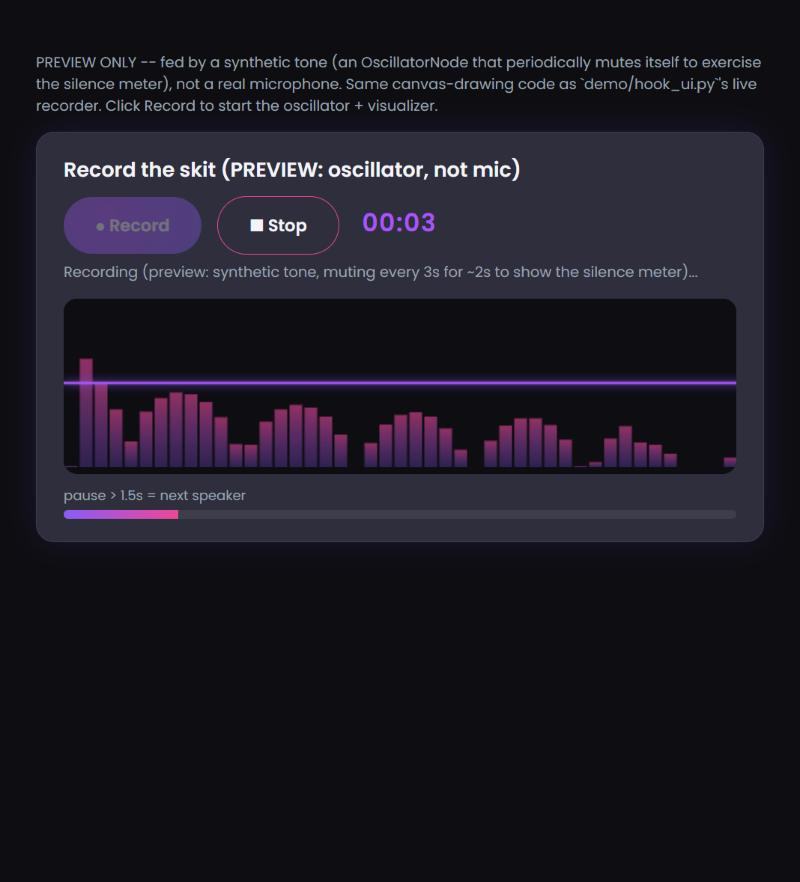
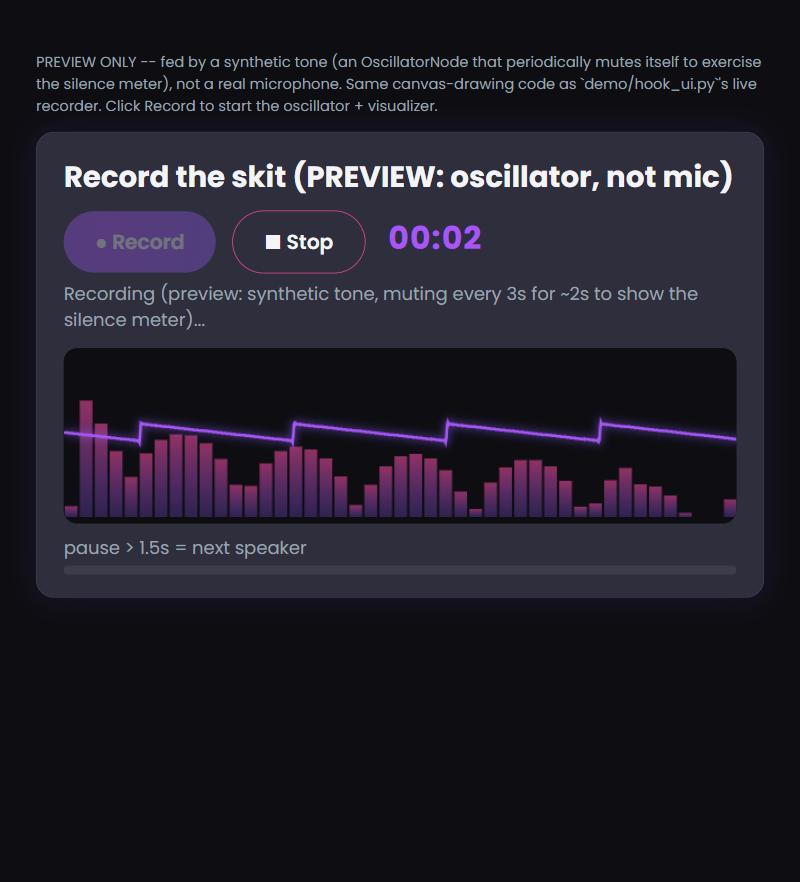
WP14: bigger recorder text (title 26px, timer 28px, buttons 18px)

Changed region(s): [[0.0312, 0.1837, 0.9688, 0.7041], [0.0625, 0.0612, 0.7188, 0.1224], [0.75, 0.0612, 0.9375, 0.0918]]

diff --git a/plan/handoffs/wp14/recorder_preview.html b/plan/handoffs/wp14/recorder_preview.html
@@ -13,9 +13,9 @@ body { background: #0D0D12; margin: 0; padding: 32px; font-family: 'Poppins','Se
   background: #2E2E3C; border-radius: 16px; padding: 20px 24px; margin: 10px 0;
   border: 1px solid #ffffff14; box-shadow: 0 0 26px #8B5CF622; max-width: 700px;
 }
-.wsx-card h3 { margin: 0 0 10px 0; font-size: 18px; font-weight: 600; color: #F4F4F8; }
+.wsx-card h3 { margin: 0 0 10px 0; font-size: 26px; font-weight: 700; color: #F4F4F8; }
 .wsx-record-btn, .wsx-stop-btn {
-  border: none; border-radius: 999px; font-weight: 600; font-size: 15px;
+  border: none; border-radius: 999px; font-weight: 600; font-size: 18px;
   padding: 14px 28px; cursor: pointer; color: #F4F4F8; margin-right: 10px;
 }
 .wsx-record-btn {
@@ -25,11 +25,11 @@ body { background: #0D0D12; margin: 0; padding: 32px; font-family: 'Poppins','Se
 .wsx-record-btn:disabled { opacity: 0.35; cursor: default; box-shadow: none; }
 .wsx-stop-btn { background: #2E2E3C; border: 1px solid #EC4899; }
 .wsx-stop-btn:disabled { opacity: 0.35; cursor: default; }
-.wsx-timer { font-size: 22px; font-weight: 600; color: #A855F7; margin-left: 6px; letter-spacing: 1px; }
-.wsx-status { font-size: 13px; color: #9CA3AF; margin-top: 6px; min-height: 18px; }
+.wsx-timer { font-size: 28px; font-weight: 700; color: #A855F7; margin-left: 6px; letter-spacing: 1px; }
+.wsx-status { font-size: 16px; color: #9CA3AF; margin-top: 6px; min-height: 20px; }
 .wsx-canvas-wrap { margin-top: 14px; border-radius: 12px; overflow: hidden; background: #0D0D12; }
 .wsx-silence-row { margin-top: 10px; }
-.wsx-silence-label { font-size: 12px; color: #9CA3AF; margin-bottom: 4px; }
+.wsx-silence-label { font-size: 16px; color: #9CA3AF; margin-bottom: 4px; }
 .wsx-silence-track { background: #ffffff14; border-radius: 999px; height: 8px; overflow: hidden; }
 .wsx-silence-fill { background: linear-gradient(90deg, #8B5CF6, #EC4899); height: 100%; width: 0%; transition: width 0.08s linear; }
 .wsx-silence-flash { color: #EC4899; font-weight: 600; }

diff --git a/demo/hook_ui.py b/demo/hook_ui.py
@@ -35,9 +35,9 @@ _RECORDER_CSS = """
   background: #2E2E3C; border-radius: 16px; padding: 20px 24px; margin: 10px 0;
   border: 1px solid #ffffff14; box-shadow: 0 0 26px __PURPLE__22; color: __TEXT__;
 }
-.wsxr-card h3 { margin: 0 0 10px 0; font-size: 18px; font-weight: 600; color: __TEXT__; }
+.wsxr-card h3 { margin: 0 0 10px 0; font-size: 26px; font-weight: 700; color: __TEXT__; }
 .wsxr-record-btn, .wsxr-stop-btn {
-  border: none; border-radius: 999px; font-weight: 600; font-size: 15px;
+  border: none; border-radius: 999px; font-weight: 600; font-size: 18px;
   padding: 14px 28px; cursor: pointer; color: __TEXT__; margin-right: 10px;
 }
 .wsxr-record-btn {
@@ -47,11 +47,11 @@ _RECORDER_CSS = """
 .wsxr-record-btn:disabled { opacity: 0.35; cursor: default; box-shadow: none; }
 .wsxr-stop-btn { background: #2E2E3C; border: 1px solid __PINK__; }
 .wsxr-stop-btn:disabled { opacity: 0.35; cursor: default; }
-.wsxr-timer { font-size: 22px; font-weight: 600; color: __PURPLE2__; margin-left: 6px; letter-spacing: 1px; }
-.wsxr-status { font-size: 13px; color: __MUTED__; margin-top: 6px; min-height: 18px; }
+.wsxr-timer { font-size: 28px; font-weight: 700; color: __PURPLE2__; margin-left: 6px; letter-spacing: 1px; }
+.wsxr-status { font-size: 16px; color: __MUTED__; margin-top: 6px; min-height: 20px; }
 .wsxr-canvas-wrap { margin-top: 14px; border-radius: 12px; overflow: hidden; background: __BG0__; }
 .wsxr-silence-row { margin-top: 10px; }
-.wsxr-silence-label { font-size: 12px; color: __MUTED__; margin-bottom: 4px; }
+.wsxr-silence-label { font-size: 16px; color: __MUTED__; margin-bottom: 4px; }
 .wsxr-silence-track { background: #ffffff14; border-radius: 999px; height: 8px; overflow: hidden; }
 .wsxr-silence-fill { background: linear-gradient(90deg, __PURPLE__, __PINK__); height: 100%; width: 0%; transition: width 0.08s linear; }
 .wsxr-silence-flash { color: __PINK__; font-weight: 600; }

diff --git a/plan/handoffs/HANDOFF-WP14.md b/plan/handoffs/HANDOFF-WP14.md
@@ -2,7 +2,9 @@
 
 Nothing committed. Files: `demo/hook_ui.py` (my recorder: Record/Stop, timer, canvas waveform+bars, silence meter, eval_js), `demo/hook_theme.py` (qna's banner/progress/cards/audio panel), `demo/hook_demo_cli.py` (standalone non-Colab fallback), `demo/hook_demo.ipynb` cells 0,2,4,6,8,10,12 rewired to both, `notebook/make_bundle.py` adds all three to `facilitator_files.zip`.
 
-Checks: (1) recorder visualizer screenshot, oscillator-fed, mid-recording: `plan/handoffs/wp14/recorder_preview_bars.jpg` + `..._silence_flash.jpg`. (2) cells 2, 8, 10, 12 from a fresh `facilitator_files.zip` extraction: **0 errors** (re-ran after qna's latest `hook_theme.py` edit too). `compile()` on all 13 cells: OK. `run_tests.py` skipped per your instruction (prototype/ untouched, confirmed via `git diff --stat main -- prototype/`: empty except the additive `demo.py` function).
+Also bumped `hook_ui.py`'s recorder font sizes (title 26px, buttons 18px, timer 28px, status/silence label 16px) per the reviewer's readability flags -- didn't touch `hook_theme.py`.
+
+Checks, re-run after the sizing fix: (1) recorder visualizer screenshot, oscillator-fed, mid-recording, big readable text: `plan/handoffs/wp14/recorder_preview_bars.jpg`. (2) cells 2, 8, 10, 12 from a fresh `facilitator_files.zip` extraction: **0 errors**. `compile()` on all 13 cells: OK. `run_tests.py` skipped per your instruction (prototype/ untouched, confirmed via `git diff --stat main -- prototype/`: empty except the additive `demo.py` function).
 
 **Asy must try with the real mic in Colab:** cell 4's Record/Stop buttons, mic permission prompt, live waveform+bars while talking, the silence meter filling and flashing "next speaker" on a pause, then cell 6's progress strip and minutes cards on your own recording.
 
